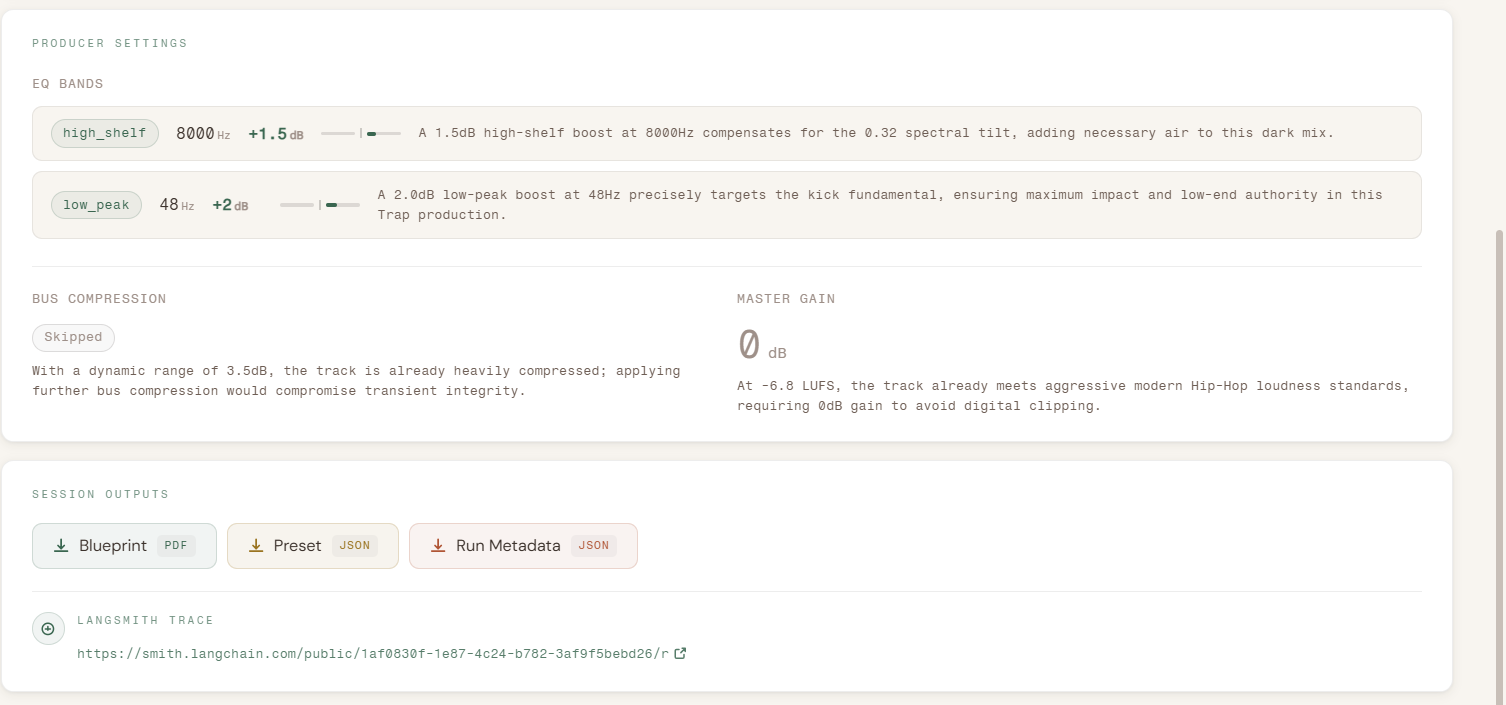
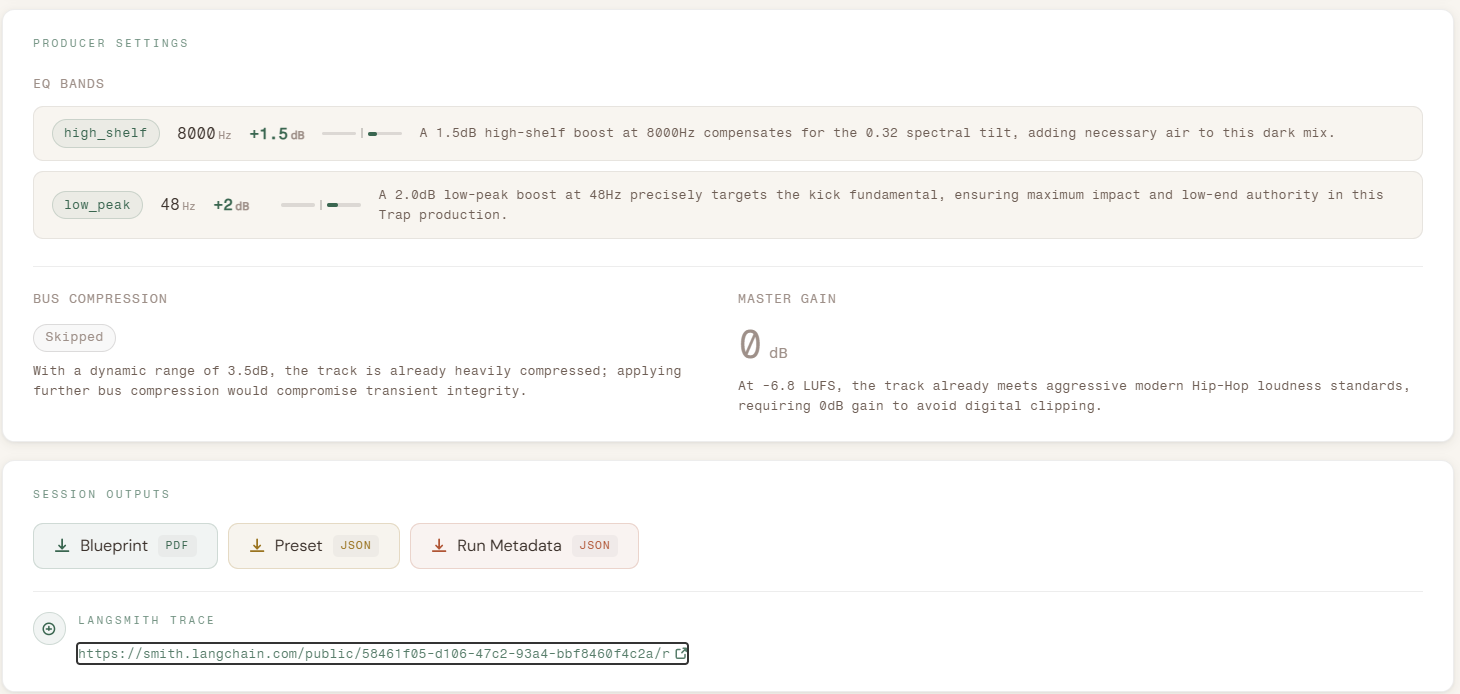
Add README, screenshots, and refactor stress-test + async endpoint

diff --git a/tests/test_critic.py b/tests/test_critic.py
@@ -57,7 +57,7 @@ def _kick_band(freq):
 def test_all_checks_pass_gives_confidence_1():
     sig = _sig(master=_master(lufs=-12.0, dr=7.0, tilt=0.5))
     settings = _settings()
-    confidence, failures = _run_checks(sig, settings)
+    confidence, _, failures = _run_checks(sig, settings)
     assert confidence == 1.0
     assert failures == []
 
@@ -67,7 +67,7 @@ def test_all_checks_pass_gives_confidence_1():
 def test_over_compression_flagged_when_dr_below_4():
     sig = _sig(master=_master(dr=3.0))
     settings = _settings(compression=_compression())
-    confidence, failures = _run_checks(sig, settings)
+    confidence, _, failures = _run_checks(sig, settings)
     assert any("over-compression" in f.lower() or "compression" in f.lower() for f in failures)
     assert confidence < 1.0
 
@@ -75,7 +75,7 @@ def test_over_compression_flagged_when_dr_below_4():
 def test_compression_allowed_when_dr_above_4():
     sig = _sig(master=_master(dr=5.0))
     settings = _settings(compression=_compression())
-    confidence, failures = _run_checks(sig, settings)
+    confidence, _, failures = _run_checks(sig, settings)
     assert not any("compression" in f.lower() for f in failures)
 
 
@@ -84,7 +84,7 @@ def test_compression_allowed_when_dr_above_4():
 def test_high_shelf_boost_on_bright_mix_flagged():
     sig = _sig(master=_master(tilt=0.8))
     settings = _settings(eq=[_high_shelf(gain_db=+1.5)])
-    confidence, failures = _run_checks(sig, settings)
+    confidence, _, failures = _run_checks(sig, settings)
     assert any("bright" in f.lower() or "spectral_tilt" in f.lower() for f in failures)
     assert confidence < 1.0
 
@@ -92,7 +92,7 @@ def test_high_shelf_boost_on_bright_mix_flagged():
 def test_high_shelf_cut_on_bright_mix_passes():
     sig = _sig(master=_master(tilt=0.8))
     settings = _settings(eq=[_high_shelf(gain_db=-2.5)])
-    confidence, failures = _run_checks(sig, settings)
+    confidence, _, failures = _run_checks(sig, settings)
     assert not any("spectral_tilt" in f.lower() for f in failures)
 
 
@@ -101,7 +101,7 @@ def test_high_shelf_cut_on_bright_mix_passes():
 def test_master_gain_boost_on_loud_track_flagged():
     sig = _sig(master=_master(lufs=-8.0))
     settings = _settings(master_gain=+2.0)
-    confidence, failures = _run_checks(sig, settings)
+    confidence, _, failures = _run_checks(sig, settings)
     assert any("lufs" in f.lower() or "loudness" in f.lower() for f in failures)
     assert confidence < 1.0
 
@@ -109,7 +109,7 @@ def test_master_gain_boost_on_loud_track_flagged():
 def test_master_gain_boost_on_quiet_track_passes():
     sig = _sig(master=_master(lufs=-16.0))
     settings = _settings(master_gain=+3.0)
-    confidence, failures = _run_checks(sig, settings)
+    confidence, _, failures = _run_checks(sig, settings)
     assert not any("loudness" in f.lower() for f in failures)
 
 
@@ -118,7 +118,7 @@ def test_master_gain_boost_on_quiet_track_passes():
 def test_kick_freq_mismatch_over_20hz_flagged():
     sig = _sig(kick_hz=60.0)
     settings = _settings(eq=[_kick_band(freq=90)])  # 30Hz off
-    confidence, failures = _run_checks(sig, settings)
+    confidence, _, failures = _run_checks(sig, settings)
     assert any("kick" in f.lower() or "freq" in f.lower() for f in failures)
     assert confidence < 1.0
 
@@ -126,7 +126,7 @@ def test_kick_freq_mismatch_over_20hz_flagged():
 def test_kick_freq_within_20hz_passes():
     sig = _sig(kick_hz=60.0)
     settings = _settings(eq=[_kick_band(freq=65)])  # 5Hz off
-    confidence, failures = _run_checks(sig, settings)
+    confidence, _, failures = _run_checks(sig, settings)
     assert not any("kick" in f.lower() for f in failures)
 
 

diff --git a/agents/analyst.py b/agents/analyst.py
@@ -29,7 +29,7 @@ class ReasonBundle(BaseModel):
 
 # ── Pure-Python rule evaluation ──────────────────────────────────────────────
 
-def _apply_rules(sig: SignalSignature, rules: list[dict], iteration_count: int = 0) -> dict[str, Any]:
+def _apply_rules(sig: SignalSignature, rules: list[dict], iteration_count: int = 0, stress_test: bool = False) -> dict[str, Any]:
     """
     Evaluate each rule condition against the SignalSignature.
     Returns a dict with: eq_bands, compression, master_gain_db, reasons_templates.
@@ -65,9 +65,10 @@ def _apply_rules(sig: SignalSignature, rules: list[dict], iteration_count: int =
         elif rule_id == "kick_fundamental_boost":
             if drums and drums.kick_fundamental_hz is not None:
                 freq = int(drums.kick_fundamental_hz)
-                
-                # Stress test: Deliberately overshoot target on pass 1 to force a Critic rejection!
-                if sig.track_id == "humble_kendrick" and iteration_count == 0:
+
+                # Stress test: deliberately overshoot kick freq on iteration 0 to exercise the
+                # Analyst→Critic rejection loop. Enabled via GraphState, not hardcoded per track.
+                if stress_test and iteration_count == 0:
                     freq += 30
 
                 band = {
@@ -181,11 +182,12 @@ def analyst_node(state: "GraphState") -> "GraphState":
     sig: SignalSignature = state["signal_signature"]
     critique: str = state.get("critique", "")
     iteration_count: int = state.get("iteration_count", 0)
+    stress_test: bool = state.get("stress_test", False)
 
     rules_data = yaml.safe_load(RULES_PATH.read_text(encoding="utf-8"))
     rules = rules_data["rules"]
 
-    draft = _apply_rules(sig, rules, iteration_count)
+    draft = _apply_rules(sig, rules, iteration_count, stress_test)
 
     llm = ChatGoogleGenerativeAI(model=MODEL, temperature=0)
     bundle = _refine_reasons(sig, draft, critique, llm)

diff --git a/api.py b/api.py
@@ -1,3 +1,4 @@
+import asyncio
 import sys
 from pathlib import Path
 
@@ -51,12 +52,14 @@ def get_tracks():
 
 
 @app.post("/analyze")
-def analyze(req: AnalyzeRequest):
-    valid_ids = {t["track_id"] for t in TRACKS}
-    if req.track_id not in valid_ids:
+async def analyze(req: AnalyzeRequest):
+    track_meta = next((t for t in TRACKS if t["track_id"] == req.track_id), None)
+    if track_meta is None:
         raise HTTPException(status_code=404, detail=f"Track '{req.track_id}' not found in cache.")
 
-    state = run_graph(req.track_id)
+    # run_graph is synchronous (LangGraph + Gemini calls); offload to thread pool
+    # so the FastAPI event loop stays free to handle other requests during the ~20s run
+    state = await asyncio.to_thread(run_graph, req.track_id, track_meta["stress_test"])
 
     if state.get("error"):
         raise HTTPException(status_code=500, detail=state["error"])

diff --git a/agents/graph.py b/agents/graph.py
@@ -37,6 +37,7 @@ class GraphState(TypedDict):
     final:             bool
     error:             str | None
     trace_url:         str | None
+    stress_test:       bool         # if True, analyst deliberately overshoots kick freq on iteration 0
     # internal: used by gateway to know which track to load
     _track_id:         str
 
@@ -83,7 +84,7 @@ def _capture_trace_url(tracer: LangChainTracer) -> str | None:
         return None
 
 
-def run(track_id: str) -> dict:
+def run(track_id: str, stress_test: bool = False) -> dict:
     app = build_graph()
 
     initial_state: GraphState = {
@@ -100,6 +101,7 @@ def run(track_id: str) -> dict:
         "final": False,
         "error": None,
         "trace_url": None,
+        "stress_test": stress_test,
     }
 
     project = os.environ.get("LANGSMITH_PROJECT", "soundreverse-v1")

diff --git a/README.md b/README.md
@@ -1,0 +1,165 @@
+# SoundReverse
+
+**A LangGraph multi-agent system that reverse-engineers mastering decisions from a track's sonic fingerprint — producing EQ settings, compression parameters, and agent reasoning as a downloadable Producer Session Pack.**
+
+---
+
+## Dashboard
+
+![SoundReverse Dashboard](screenshots/ui_dashboard_humble.png)
+
+*HUMBLE. by Kendrick Lamar — 2-iteration run. Critic rejects iteration 1 (kick frequency mismatch), Analyst self-corrects, Critic approves at 100% confidence.*
+
+---
+
+## How It Works
+
+### Signal Extraction — custom MCP server (offline)
+
+A custom MCP server built with **HTDemucs 4-stem**, **FFmpeg**, and **Librosa** separates a track into stems and extracts a `SignalSignature` — per-stem LUFS, dynamic range, spectral tilt, kick fundamental Hz, stereo correlation, BPM, key, and more.
+
+Stem separation on CPU takes **15–20 minutes per track**. The 5 demo tracks ship with pre-computed signatures so the agentic pipeline runs on demand in seconds.
+
+### Agentic Orchestration — LangGraph (on demand)
+
+```
+  SignalSignature JSON
+          │
+          ▼
+   ┌─────────┐     ┌──────────┐     ┌────────┐
+   │ Gateway │────▶│ Analyst  │────▶│ Critic │
+   └─────────┘     └──────────┘     └────┬───┘
+    validates        rules.yaml +         │ confidence < 0.8?
+    schema           Gemini reasons       │ (max 3 iterations)
+                         ▲               │
+                         └───────────────┘
+                                │ approved
+                                ▼
+                           Output Node
+                     PDF + JSON preset + LangSmith trace URL
+```
+
+| Agent | Role | LLM |
+|-------|------|-----|
+| **Gateway** | Loads SignalSignature JSON, validates via Pydantic | No |
+| **Analyst** | Evaluates `rules.yaml` deterministically, calls Gemini to write reason strings | Yes — structured tool call |
+| **Critic** | Runs 4 physical-impossibility checks, calls Gemini to write critique + correction hints | Yes — structured tool call |
+
+**Why two LLM agents?** The Analyst writes justifications for settings; the Critic reviews them and writes targeted correction hints that feed back into the Analyst's next prompt. The back-and-forth is visible in the LangSmith trace waterfall.
+
+---
+
+## LangSmith Trace
+
+Every run produces a **public, shareable trace** — no login required.
+
+![LangSmith Waterfall](screenshots/langsmith_trace_waterfall.png)
+
+*2-iteration HUMBLE. run: gateway → analyst (LLM) → critic rejects (LLM) → analyst (LLM) → critic approves (LLM). 4 LLM calls, ~11s total.*
+
+Live trace: [smith.langchain.com/public/58461f05-d106-47c2-93a4-bbf8460f4c2a/r](https://smith.langchain.com/public/58461f05-d106-47c2-93a4-bbf8460f4c2a/r)
+
+---
+
+## Producer Settings Output
+
+![Producer Settings](screenshots/ui_producer_settings.png)
+
+---
+
+## Tech Stack
+
+| Layer | Technology |
+|-------|-----------|
+| Signal extraction | HTDemucs 4-stem, FFmpeg, Librosa (custom MCP server) |
+| Agent orchestration | LangGraph `StateGraph` |
+| LLM | Gemini via `langchain-google-genai` — structured tool calling |
+| Schema validation | Pydantic v2 |
+| Rules engine | PyYAML — deterministic EQ/compression mapping |
+| Observability | LangSmith — public trace URLs via `client.share_run()` |
+| API | FastAPI + Uvicorn |
+| Frontend | React + Vite + Tailwind CSS |
+| PDF output | fpdf2 |
+
+---
+
+## Key Design Decisions
+
+**Rules own the numbers, LLM owns the words.** All EQ frequencies, compression ratios, and gain values come from `rules.yaml` evaluated in Python. The LLM only writes the reason strings. This prevents hallucinated settings while keeping the output human-readable.
+
+**Critic is deterministic on pass/fail, generative on narrative.** The 4 validation checks (over-compression, bright boost contradiction, loudness ceiling, kick frequency mismatch) are pure Python `if/else`. The LLM writes the critique and correction hints — making feedback actionable without letting the model decide what's physically valid.
+
+**Output node runs outside the graph.** The LangSmith trace URL is only available after `app.invoke()` completes. The output generator runs post-invocation so the PDF and JSON embed the real trace URL.
+
+---
+
+## Project Structure
+
+```
+soundreverse/
+├── agents/
+│   ├── gateway.py          # Loads + validates SignalSignature JSON
+│   ├── analyst.py          # Rules eval + Gemini reason writing
+│   ├── critic.py           # Deterministic checks + Gemini critique
+│   └── graph.py            # LangGraph StateGraph, run() entry point
+├── schemas/
+│   ├── signal_signature.py # Pydantic model — matches cache JSON exactly
+│   ├── track_request.py
+│   └── producer_settings.py
+├── rules/
+│   └── rules.yaml          # EQ/compression mapping rules
+├── cache/                  # 5 pre-computed SignalSignature JSON files
+├── output/
+│   └── generator.py        # PDF blueprint + JSON preset writer
+├── frontend/               # React + Vite dashboard
+├── api.py                  # FastAPI server
+└── tests/
+```
+
+---
+
+## Setup
+
+```bash
+# 1. Clone and install
+git clone https://github.com/ripunjkashyap-a11y/soundreverse.git
+cd soundreverse
+python -m venv venv && venv/Scripts/activate  # Windows
+pip install -r requirements.txt
+
+# 2. Environment variables
+cp .env.example .env
+# Fill in: GOOGLE_API_KEY, LANGSMITH_API_KEY, LANGSMITH_PROJECT, LANGCHAIN_TRACING_V2=true
+
+# 3. Run backend
+uvicorn api:app --reload --port 8001
+
+# 4. Run frontend (separate terminal)
+cd frontend && npm install && npm run dev
+
+# 5. Open http://localhost:5173
+```
+
+**CLI:**
+```bash
+python agents/graph.py --track humble_kendrick
+```
+
+**Tests:**
+```bash
+pytest tests/ -v
+```
+
+---
+
+## Cached Tracks
+
+| Track | Artist | |
+|-------|--------|-|
+| Billie Jean | Michael Jackson | |
+| One More Time | Daft Punk | |
+| Clocks | Coldplay | |
+| HUMBLE. | Kendrick Lamar | ⚡ triggers 2-iteration critic loop |
+| Blinding Lights | The Weeknd | |
+
+⚡ HUMBLE. deliberately overshoots kick frequency on iteration 1 to demonstrate the Analyst–Critic rejection and self-correction cycle.